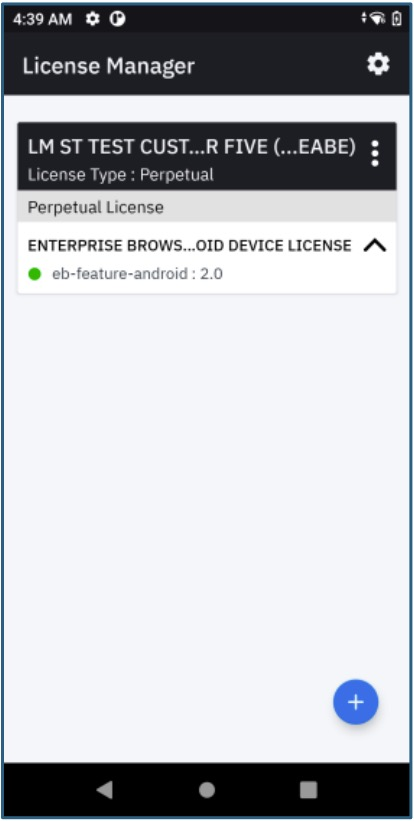
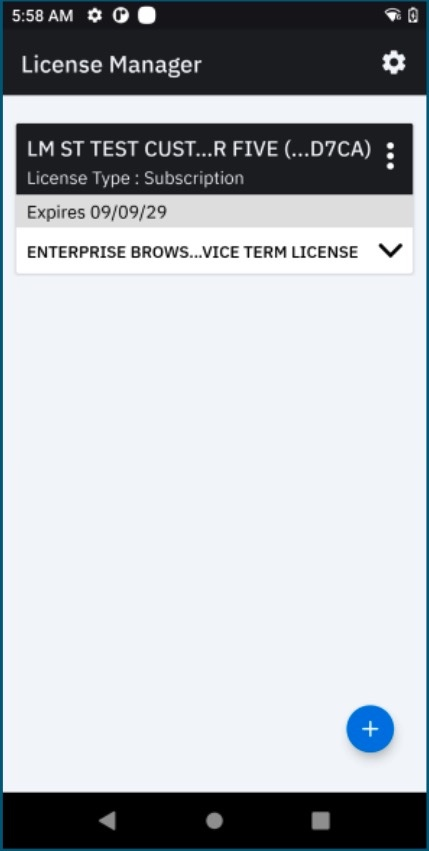
[TUT-137021; SPR-59500] EB 6.0 updates per eng; licensing upd per eCRT

Changed region(s): [[0.0, 0.0, 1.0, 1.0], [0.8696, 0.2741, 0.9565, 0.335]]

diff --git a/enterprise-browser/6-0/guide/licensing/index.html b/enterprise-browser/6-0/guide/licensing/index.html
@@ -306,7 +306,7 @@
 
 <li><strong>PS20s running Android 10</strong> must upgrade to Android 11 to run EB 3.3.0.5 (or later).</li>
 
-<li><strong>Use the May 2022 LifeGuard update</strong><i>†</i> to avoid additional EB licensing requirements.</li></ul>
+<li><strong>Use the May 2022 (or later) LifeGuard update</strong><i>†</i> to avoid additional EB licensing requirements.</li></ul>
 </li>
 </ul>
 
@@ -401,8 +401,6 @@ TUT-69467 replaced bullet below with new and approved "Important PS20 Info" sect
 <h4 id="availablelicensetypes" class="anchor"><a class="heading-anchor" href="#availablelicensetypes"><span></span></a>Available License Types</h4>
 
 <ul>
-<li><strong>Perpetual License</strong> (never expires)</li>
-
 <li><strong>Trial License</strong> (90-day evaluation period)</li>
 
 <li><strong>Term-based License</strong>:
@@ -416,31 +414,34 @@ TUT-69467 replaced bullet below with new and approved "Important PS20 Info" sect
 <li><strong>1-year</strong> term</li></ul>
 </li>
 
-<li>These <strong>licenses can be activated using Activation IDs or</strong> one of the following <strong>Feature Names</strong>: 
+<li>These <strong>licenses can be activated using Badge IDs or</strong> one of the following <strong>Feature Names</strong>: 
 
 
 <ul>
-<li><code>eb-feature-android</code> (Perpetual licenses)</li>
-
 <li><code>eb-feature-android-eval</code> (Trial licenses)</li>
 
 <li><code>eb-feature-android-subs</code> (Term-based licenses)</li></ul>
 </li>
 </ul>
 
+<!-- 9/11/26 removed; no longer offered
+* **Perpetual License** (never expires)
+
+ * `eb-feature-android` (Perpetual licenses)
+ -->
+
 <p><i class="fa fa-exclamation-triangle" aria-hidden="true" style="color:#FFA500;"></i> <strong>An “unlicensed software” reminder appears on devices every four hours</strong> beginning one month before the end of all non-evaluation terms. After expiration, the prompt appears every five minutes until an EB license is applied. A 30-day term is included with every EB download. </p>
 
-<h4 id="aboutperpetuallicenses" class="anchor"><a class="heading-anchor" href="#aboutperpetuallicenses"><span></span></a>About Perpetual Licenses</h4>
+<!-- 9/11/26 removed; no longer offered
 
-<ul>
-<li>Upgrades to EB 3.x are provided at no charge for all EB 2.x perpetual licenses covered under an Active Zebra OneCare™ Software Maintenance Agreement.</li>
+#### About Perpetual Licenses
 
-<li>The same Activation ID (license key) can be used for EB 2.x or EB 3.x (For EB 3.0, a new <code>.apk</code> must be deployed).</li>
+* Upgrades to EB 3.x are provided at no charge for all EB 2.x perpetual licenses covered under an Active Zebra OneCare™ Software Maintenance Agreement.
+* The same Badge ID (license key) can be used for EB 2.x or EB 3.x (For EB 3.0, a new `.apk` must be deployed).
+* Customers not under maintenance can purchase Zebra OneCare™ for their EB 2.x licenses and access EB 3.x software at no extra charge. 
+* Customers purchasing a maintenance agreement for their perpetual EB 2.x license get access to the EB 3.x perpetual license through the Zebra Software Library portal.
 
-<li>Customers not under maintenance can purchase Zebra OneCare™ for their EB 2.x licenses and access EB 3.x software at no extra charge. </li>
-
-<li>Customers purchasing a maintenance agreement for their perpetual EB 2.x license get access to the EB 3.x perpetual license through the Zebra Software Library portal.</li>
-</ul>
+-->
 
 <h4 id="commoncriteria-1" class="anchor"><a class="heading-anchor" href="#commoncriteria-1"><span></span></a>Common Criteria</h4>
 
@@ -477,15 +478,34 @@ TUT-69467 replaced bullet below with new and approved "Important PS20 Info" sect
 <li>Test Cloud Through Proxy - <strong>For Zebra internal use only</strong>.</li>
 </ul>
 
-<h4 id="beforebeginning" class="anchor"><a class="heading-anchor" href="#beforebeginning"><span></span></a>BEFORE BEGINNING</h4>
+<hr>
+
+<h2 id="licenseactivation" class="anchor"><a class="heading-anchor" href="#licenseactivation"><span></span></a>License Activation</h2>
+
[1 lines of base64/hex data omitted]
 
 <ul>
-<li><strong>Confirm that the clock is set correctly on the device to ensure proper license-application behavior</strong>. </li>
+<li><strong>Confirm that the clock is set correctly on the device to ensure proper application of license(s)</strong>. </li>
 
-<li><strong>License-key barcodes are not provided by Zebra</strong>; they can be created by the licensee to ease the activation process. Keys also can be typed in manually. </li>
+<li><strong>Create license-key barcodes (if desired) using any barcode generator tool</strong>.<br>License-key barcodes ease the activation process; they are not provided by Zebra. Keys also can be typed in manually. </li>
+
+<li><strong>Ensure devices are connected to the internet or the required licensing server</strong>. </li>
 </ul>
 
-<h4 id="toactivatelicensespleaserefertothelicensemanageruserguidehttpswwwzebracomcontentdamzebra_new_iaenussoftwareserviceslicensemanagerugenpdflicenseactivationsectionforfurtherinstructions" class="anchor"><a class="heading-anchor" href="#toactivatelicensespleaserefertothelicensemanageruserguidehttpswwwzebracomcontentdamzebra_new_iaenussoftwareserviceslicensemanagerugenpdflicenseactivationsectionforfurtherinstructions"><span></span></a>To activate license(s), please refer to the <a href="https://www.zebra.com/content/dam/zebra_new_ia/en-us/software---services/license-manager-ug-en.pdf">License Manager User Guide</a> "License Activation" section for further instructions.</h4>
+<blockquote>
+  <p><i class="fa fa-hand-o-right" style="color:#27AE60;"></i> Refer to the Zebra <a href="https://www.zebra.com/content/dam/support-dam/en/documentation/unrestricted/guide/software/license-manager_guide.pdf">License Manager User Guide (.pdf)</a> for online and offline license activation instructions. <br><br>
+  <i class="fa fa-youtube-play" style="color:#FF0000;"></i> See videos and additional documentation on the <a href="https://www.zebra.com/us/en/support-downloads/software/mobile-computer-software/license-manager.html?downloadId=3c2d27dd-2174-4cce-befc-366cdd8f29a2#Ta-item-e87d83b4f0-tab">License Manager Support page</a>. </p>
+</blockquote>
+
+<!-- Inserted eCRT-approved docs copied from the /licensing/process page (above), replacing this outdated drek: 
+
+#### BEFORE BEGINNING
+* **Confirm that the clock is set correctly on the device to ensure proper license-application behavior**. 
+* **License-key barcodes are not provided by Zebra**; they can be created by the licensee to ease the activation process. Keys also can be typed in manually. 
+
+#### To activate license(s), please refer to the [License Manager User Guide](https://www.zebra.com/content/dam/zebra_new_ia/en-us/software---services/license-manager-ug-en.pdf) "License Activation" section for further instructions.
+
+ -->
 
 <!-- 1/6/22- per eng., inserted link to License Manager pdf and removed steps below. 
 1. Locate and **launch the License Manager** app:
@@ -498,7 +518,7 @@ _Click image to enlarge; ESC to exit._
  _Click image to enlarge; ESC to exit._
 <br>
 3. When the Activation screen appears: 
- 1. **Enter the license key (Activation ID)**: 
+ 1. **Enter the license key (Badge ID)**: 
  <img alt="" style="height:350px" src="6b.png"/>
  _Click image to enlarge; ESC to exit._
  <br>
@@ -528,8 +548,12 @@ _Click image to enlarge; ESC to exit._
 <p>License Manager provides a Local License Server option, enabling organizations to employ an on-premise server to distribute licenses to devices without access to the internet. This option requires software installed on a company's own IP-based Linux or Windows server in advance of license distribution to devices. </p>
 
 <blockquote>
-  <p><strong>For more information, including hardware requirements and setup instructions, download the appropriate Local License Server Administration Guide from the <a href="https://www.zebra.com/us/en/support-downloads/software-licensing.html">Zebra License Management support portal page</a></strong>.<br><br> <strong>Also see the <a href="https://www.zebra.com/content/dam/zebra_new_ia/en-us/manuals/mobile-computers/miscellaneous/license-manager-ug-en.pdf">License Manager User Guide</a></strong>.</p>
+  <p><strong>For more information, including hardware requirements and setup instructions, download the appropriate Local License Server Administration Guide from the <a href="https://www.zebra.com/us/en/support-downloads/software-licensing.html">Zebra License Management support portal page</a></strong>.<br><br> </p>
 </blockquote>
+
+<!-- 9/11/26 dead link:
+**Also see the [License Manager User Guide](https://www.zebra.com/content/dam/zebra_new_ia/en-us/manuals/mobile-computers/miscellaneous/license-manager-ug-en.pdf)**. 
+-->
 
 <h4 id="importantpersistencenotes" class="anchor"><a class="heading-anchor" href="#importantpersistencenotes"><span></span></a><code>IMPORTANT PERSISTENCE NOTES:</code></h4>
 
@@ -550,12 +574,12 @@ _Click image to enlarge; ESC to exit._
 
 <h3 id="fromalocalserver" class="anchor"><a class="heading-anchor" href="#fromalocalserver"><span></span></a>From a Local Server</h3>
 
-<h4 id="beforebeginning-1" class="anchor"><a class="heading-anchor" href="#beforebeginning-1"><span></span></a>Before Beginning</h4>
+<h4 id="beforebeginning" class="anchor"><a class="heading-anchor" href="#beforebeginning"><span></span></a>Before Beginning</h4>
 
 <ul>
 <li><strong>Install and configure Local License Server</strong> according to the <a href="https://www.zebra.com/us/en/support-downloads/software-licensing.html">relevant admin guide</a>.</li>
 
-<li><strong>Acquire a <code>.BIN</code> file containing licenses</strong> (Activation IDs) from Zebra License Server for all devices to be licensed.</li>
+<li><strong>Acquire a <code>.BIN</code> file containing licenses</strong> (Badge IDs) from Zebra License Server for all devices to be licensed.</li>
 
 <li>Ensure target devices are connected to the Local Licensing Server.</li>
 </ul>
@@ -597,13 +621,13 @@ Then <strong>Tap Activate</strong>.
 
 <li>Preactivated licenses must be applied before all other license actions.</li>
 
-<li><strong>If combining the application of Activation IDs and preactivated licenses</strong> in the same configuration Profile, <strong>preactivated licenses must be applied first</strong>.</li>
+<li><strong>If combining the application of Badge IDs and preactivated licenses</strong> in the same configuration Profile, <strong>preactivated licenses must be applied first</strong>.</li>
 </ul>
 
-<h4 id="beforebeginning-2" class="anchor"><a class="heading-anchor" href="#beforebeginning-2"><span></span></a>Before Beginning</h4>
+<h4 id="beforebeginning-1" class="anchor"><a class="heading-anchor" href="#beforebeginning-1"><span></span></a>Before Beginning</h4>
 
 <ul>
-<li><strong>Acquire a <code>.BIN</code> file containing licenses</strong> (Activation IDs) from Zebra License Server for all devices to be licensed.</li>
+<li><strong>Acquire a <code>.BIN</code> file containing licenses</strong> (Badge IDs) from Zebra License Server for all devices to be licensed.</li>
 </ul>
 
 <h4 id="toinstalllicensesfrompreactivatedkeys" class="anchor"><a class="heading-anchor" href="#toinstalllicensesfrompreactivatedkeys"><span></span></a>To install licenses from preactivated keys</h4>
@@ -638,7 +662,7 @@ Then <strong>Tap Activate</strong>.
[1 lines of base64/hex data omitted]
 
 <ul>
-<li><strong>The procedures described below include only those for deploying and activating licenses for EB 2.0 (or later)</strong>. They <strong>DO NOT</strong> include the purchase process for license activation IDs nor configuration of the network and device clock settings, which are required to download the app and properly apply the license(s).</li>
+<li><strong>The procedures described below include only those for deploying and activating licenses for EB 2.0 (or later)</strong>. They <strong>DO NOT</strong> include the purchase process for license Badge IDs nor configuration of the network and device clock settings, which are required to download the app and properly apply the license(s).</li>
 
 <li><strong>To set license keys to remain on the device following an Enterprise Reset</strong>, keys MUST be stored in the <code>/enterprise/usr</code> folder on the device and <u>in a single Profile</u> activated using License Manager and preserved using <a href="/mx/persistmgr">Persist Manager</a>.</li>
 </ul>
@@ -648,7 +672,7 @@ Then <strong>Tap Activate</strong>.
 <ul>
 <li>Profiles for correctly configuring device clock and network settings</li>
 
-<li>Software License key(s) (aka Activation IDs)</li>
+<li>Software License key(s) (aka Badge IDs)</li>
 
 <li>All necessary EB 2.x application (binary) files</li>
 </ul>
@@ -741,7 +765,7 @@ c. <strong>Quantity of available licenses visible on the licensing portal should
 <ul>
 <li><strong>Licenses erased by a <a href="/mx/powermgr/#enterprisereset">Factory Reset</a> can be reissued <u>to the same device(s) using the same StageNow Profile</u></strong> and the same License Source (i.e. cloud-based or local server). </li>
 
-<li><strong>When ordering additional unit entitlements for an existing site license, include the Activation ID</strong> with the order to ensure that the same EMM policy can be used for the additional devices.</li>
+<li><strong>When ordering additional unit entitlements for an existing site license, include the Badge ID</strong> with the order to ensure that the same EMM policy can be used for the additional devices.</li>
 
 <li><strong>The fastest way to deploy a trial license on a device</strong> is by using the License Manager app and the <a href="#iiimanuallyassignlicense">manual license assignment</a> procedures above.</li>
 
